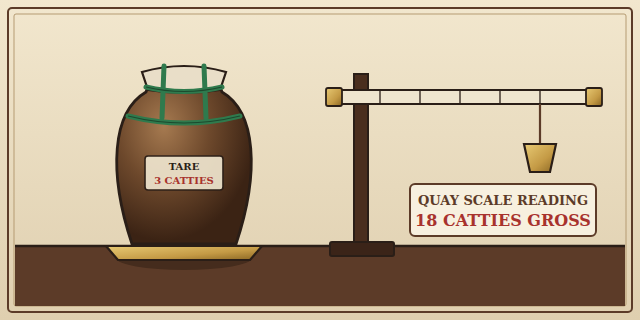
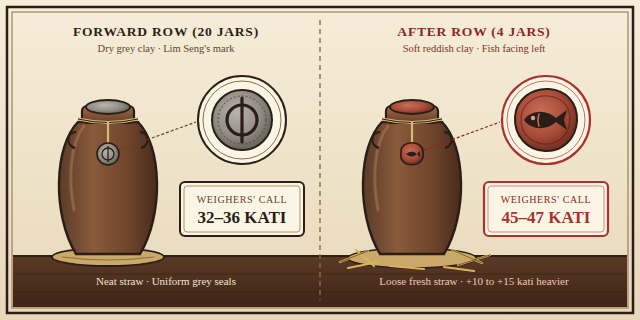
Redraw case_001 evidence plates to match "The jars from Guangzhou" (#16)
* Redraw case_001 evidence plates to match 'The jars from Guangzhou'

* Align visual preview manifest and button with Guangzhou case_001

---------

diff --git a/docs/art-style-guide.md b/docs/art-style-guide.md
@@ -148,8 +148,8 @@ All visual assets depict the **Melaka Sultanate at its commercial height around 
 | `assets/art/cargo/cargo_cloth.png` | `128×128` | Bound bolts of Coromandel dyed cotton/chintz in Kling indigo, madder red, and saffron ochre. |
 | `assets/art/cargo/porcelain_jar_closed.png` | `256×256` | Inspection close-up: sealed Martaban stoneware jar (Santa Cruz profile) bound with hemp cord and wax/lac closure. |
 | `assets/art/cargo/porcelain_jar_open.png` | `256×256` | Inspection close-up: opened Martaban jar revealing straw packing and nested Ming blue-and-white bowls inside. |
-| `assets/inspection/lot-seven-exterior.png` | `640×320` | Stage A `case_001` evidence plate (2:1): Lot Seven jar tied with green transit cord on quay *dacing* scale (18 catties gross, 3 catties tare stamp). |
-| `assets/inspection/lot-seven-open.png` | `640×320` | Stage A `case_001` evidence plate (2:1): Opened Lot Seven showing dry bowl stacks and unlisted cloth packet with three red-grain resin lumps. |
+| `assets/inspection/lot-seven-exterior.png` | `640×320` | Stage A `case_001` ("The jars from Guangzhou") evidence plate (2:1): forward-row jars (dry grey circle-and-line seals, 32–36 kati) vs. after-row jars (soft reddish fish-facing-left seals, loose straw, 45–47 kati). |
+| `assets/inspection/lot-seven-open.png` | `640×320` | Stage A `case_001` ("The jars from Guangzhou") evidence plate (2:1): opened forward-row jar (30 blue-and-white bowls in straw, 2 chipped) vs. opened after-row jar (8 bowls over straw mat and ~18 kati whole nutmegs). |
 | `assets/art/inspection/inspection_desk_bg.png` | `1024×640` | Top-down/angled teak customs table with brass *dacing* steelyard, bamboo reed pen, inkpot, and woven mat. |
 | `assets/art/inspection/manifest_scroll.png` | `384×512` | Aged rag-paper manifest parchment with hand-ruled ink columns and Malay geometric border. |
 | `assets/art/inspection/seal_wax_intact.png` | `96×96` | Intact cinnabar lac/wax merchant seal with raised maritime emblem. |
